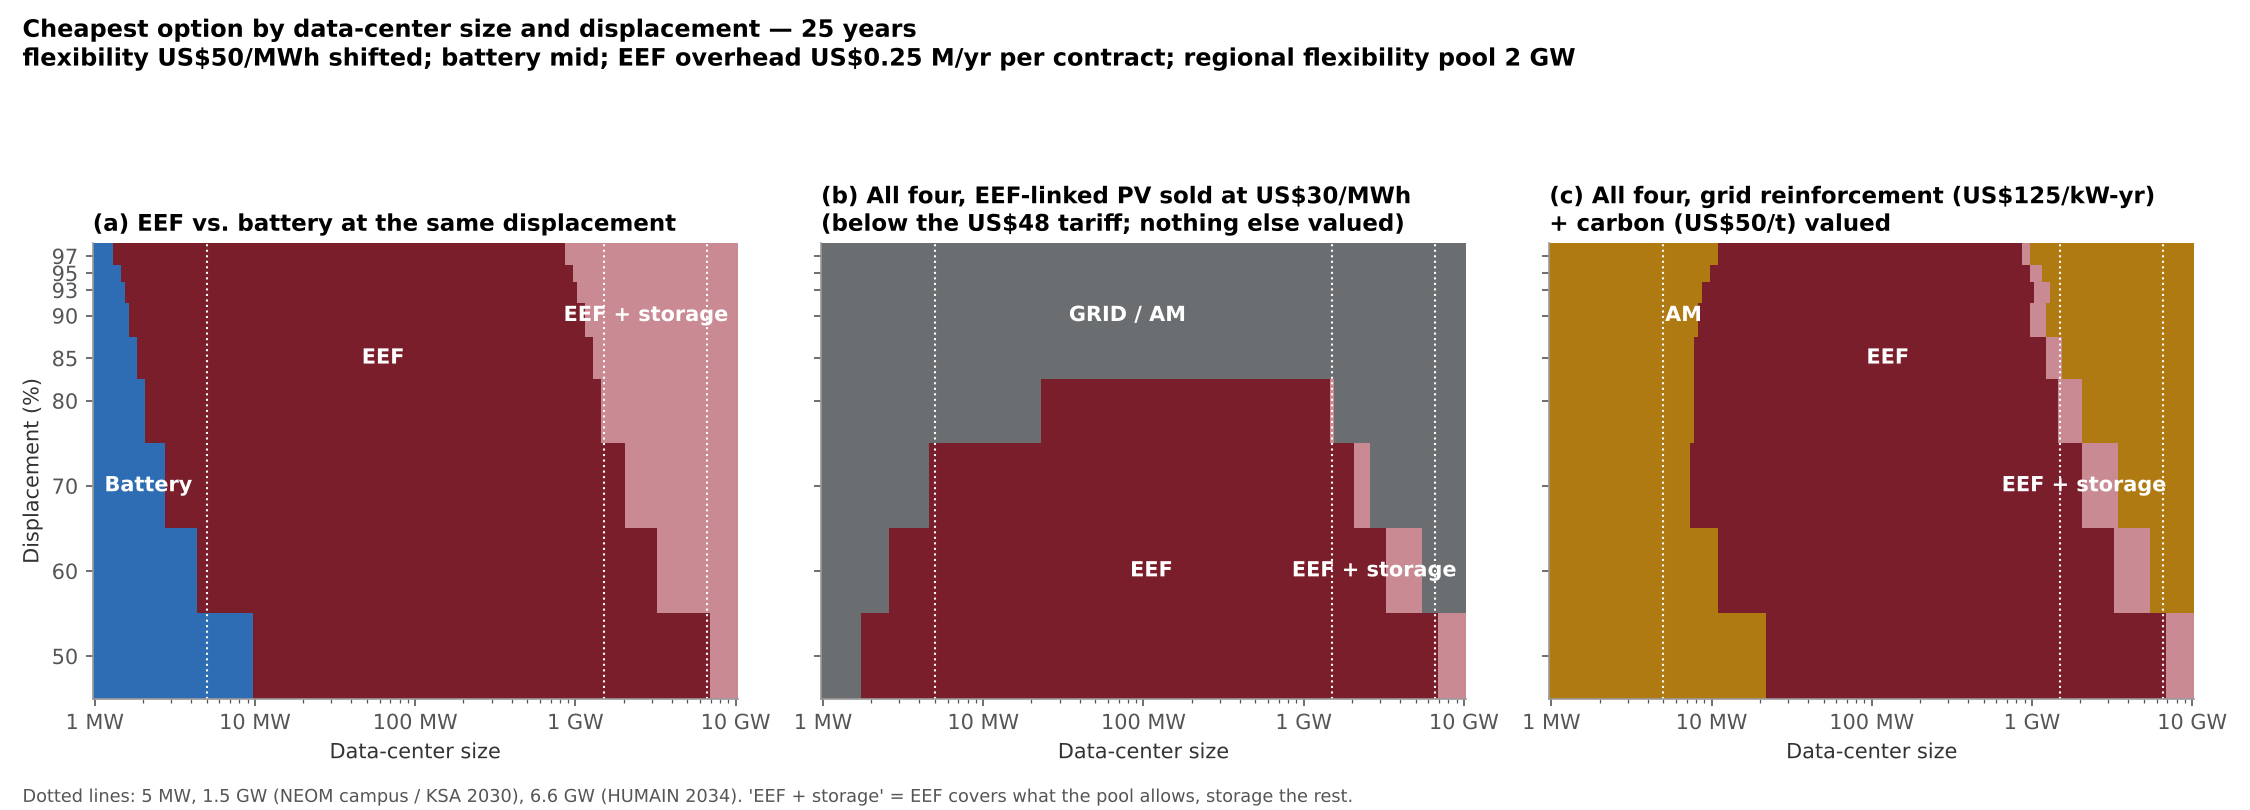
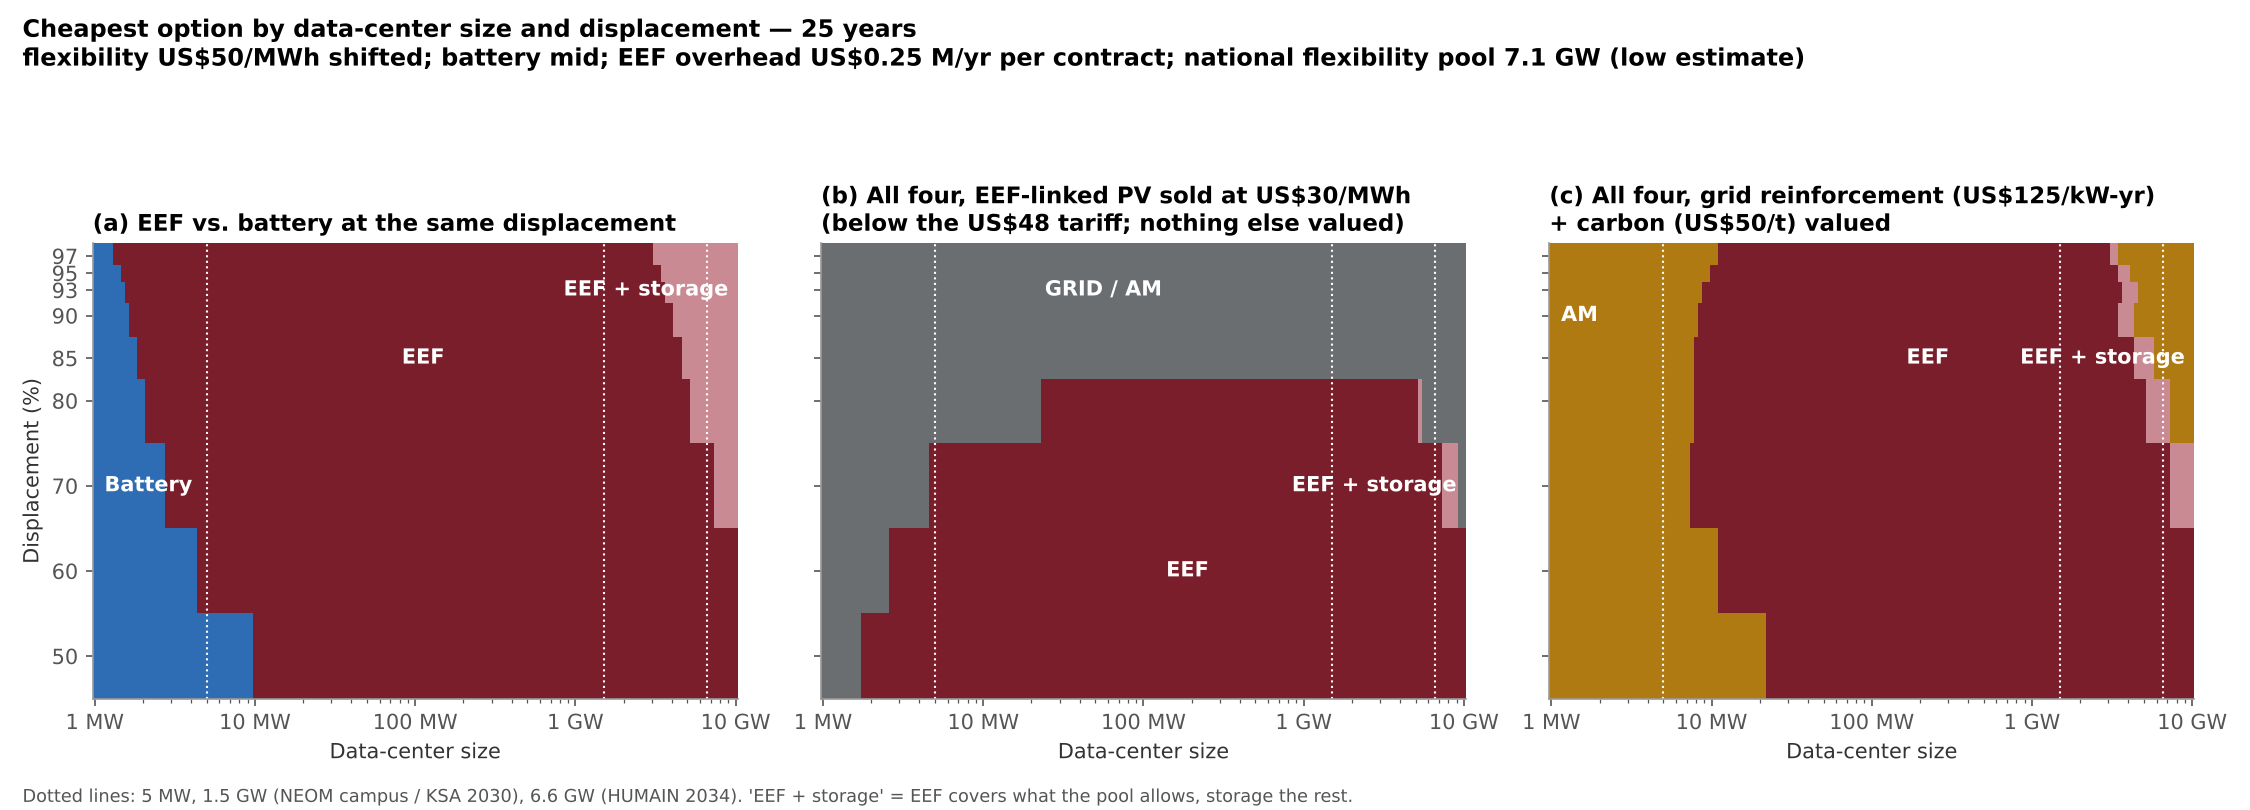
Use the national flexibility pool: one interconnected Saudi grid
A data center can contract flexible loads anywhere on the national grid
through the operator, so the size limit is the national pool (7.1 GW low,
29.9 GW high) shared by all data centers on EEF, not a regional pool.
Verdict: 85-97% displacement; ~8 MW up to ~3.5 GW in total (~14 GW high).

Claude-Session: https://claude.ai/code/session_01JnT9EYRxwG655caXrsEVoH

diff --git a/tpec2027/model/plot_verdict.py b/tpec2027/model/plot_verdict.py
@@ -3,7 +3,8 @@
 Curve 1 (displacement, 100-MW data center): EEF's 25-year cost advantage over the cheapest alternative
 (GRID, AM or battery), and the share of summer evenings freed on the grid.
 Curve 2 (size, at the recommended displacement): the same advantage against data-center size.
-Both for Riyadh and NEOM. "Works" = EEF is the cheapest of the four AND it frees >= 90% of the data center's
+Both for Riyadh and NEOM, with the national flexibility pool (one interconnected grid; low 7.1 GW, high 29.9 GW).
+The size limit is the TOTAL data-center capacity using EEF nationally, not one campus. "Works" = EEF is the cheapest of the four AND it frees >= 90% of the data center's
 load on summer evenings (the hours that drive grid reinforcement).
 Value case: grid reinforcement avoided (US$125/kW-yr) + carbon (US$50/t); other assumptions as plot_displacement.py.
 Writes results/verdict_ranges.csv and figures/fig_verdict_curves.png.
@@ -21,12 +22,12 @@ R, C = pdp.R_KW, 50.0
 X_REC = 0.90
 EVE_MIN = 0.90
 SITES = {"riyadh": ("Riyadh", "-"), "neom": ("NEOM", "--")}
-SIZES = np.logspace(0, 4, 401)
+SIZES = np.logspace(0, np.log10(30000), 451)
 MAROON, BLUE, GREY = pdp.COL["EEF"], pdp.COL["Battery"], "#6B6E70"
 
 
-def advantage(ph, X, S, am_x):
-    k = pdp.costs(X, S, R, C, ph=ph, am_x=am_x)
+def advantage(ph, X, S, am_x, pool=pdp.POOL):
+    k = pdp.costs(X, S, R, C, ph=ph, am_x=am_x, pool=pool)
     return min(k["GRID"], k["AM"], k["Battery"]) - k["EEF"], k["Battery"] - k["EEF"], k["f"], k["e"]
 
 
@@ -40,15 +41,17 @@ for site in SITES:
     sz = [advantage(ph, X_REC, S, am_x) for S in SIZES]
     pure = [S for S, a in zip(SIZES, sz) if a[0] > 0 and a[2] >= 1]
     hyb = [S for S, a in zip(SIZES, sz) if a[0] > 0 and a[2] < 1]
-    curves[site] = dict(xs=xs, adv=adv, eve=eve, sz=sz)
+    sz_hi = [advantage(ph, X_REC, S, am_x, pdp.POOL_HIGH) for S in SIZES]
+    pure_hi = [S for S, a in zip(SIZES, sz_hi) if a[0] > 0 and a[2] >= 1]
+    curves[site] = dict(xs=xs, adv=adv, eve=eve, sz=sz, sz_hi=sz_hi)
     out.append([site, round(100 * min(ok)), round(100 * max(ok)), round(min(pure), 1), round(max(pure)),
-                round(max(hyb)) if hyb else "", round(X_REC * 100)])
+                round(max(hyb)) if hyb else "", round(max(pure_hi)), round(X_REC * 100)])
     print(site, "displacement", min(ok), "-", max(ok), "| size EEF alone", round(min(pure), 1), "-", round(max(pure)),
           "| with storage up to", round(max(hyb)) if hyb else "-")
 with open(pdp.RES / "verdict_ranges.csv", "w", newline="") as fh:
     w = csv.writer(fh)
     w.writerow(["site", "displacement_min_pct", "displacement_max_pct", "size_min_MW", "size_max_MW_eef_alone",
-                "size_max_MW_with_storage", "size_curve_at_pct"])
+                "size_max_MW_with_storage", "size_max_MW_eef_alone_high_pool", "size_curve_at_pct"])
     w.writerows(out)
 
 plt.rcParams.update({"text.parse_math": False, "font.family": "DejaVu Sans", "font.size": 10.5,
@@ -76,27 +79,29 @@ ax3.axhline(100 * EVE_MIN, color="#333333", lw=1, ls=":")
 ax3.text(49, 100 * EVE_MIN + 2, f"{100 * EVE_MIN:.0f}% of the DC load freed", fontsize=9, color="#333333")
 ax3.set_ylim(0, 105); ax3.set_ylabel("Summer evenings\nfreed (%)"); ax3.set_xlabel("Displacement of the data center's use (%)")
 ax3.set_title("(b) Grid room on summer evenings (18:00–02:00)")
-s_lo = min(o[3] for o in out); s_hi = min(o[4] for o in out); s_hi_n = max(o[4] for o in out)
+s_lo = min(o[3] for o in out); s_hi = min(o[4] for o in out); s_hh = min(o[6] for o in out)
 for site, (lab, ls) in SITES.items():
     cv = curves[site]
     ax2.plot(SIZES, [a[0] for a in cv["sz"]], color=MAROON, lw=2.6, ls=ls, label=f"{lab}: vs. the cheapest alternative")
-    ax2.plot(SIZES, [a[1] for a in cv["sz"]], color=BLUE, lw=1.8, ls=ls, label=f"{lab}: vs. the battery")
-ax2.axvspan(s_lo, s_hi, color=MAROON, alpha=.08, lw=0)
+ax2.plot(SIZES, [a[0] for a in curves["riyadh"]["sz_hi"]], color=MAROON, lw=1.6, ls=":", label="Riyadh: same, national pool high (29.9 GW)")
+ax2.plot(SIZES, [a[1] for a in curves["riyadh"]["sz"]], color=BLUE, lw=1.8, label="Riyadh: vs. the battery")
+ax2.axvspan(s_lo, s_hi, color=MAROON, alpha=.10, lw=0)
+ax2.axvspan(s_hi, s_hh, color=MAROON, alpha=.04, lw=0)
 ax2.axhline(0, color="#333333", lw=1)
-ax2.set_xscale("log"); ax2.set_xlim(1, 10000); ax2.set_ylim(-25, 26)
+ax2.set_xscale("log"); ax2.set_xlim(1, 30000); ax2.set_ylim(-25, 26)
 ax2.set_xticks([1, 10, 100, 1000, 10000]); ax2.set_xticklabels(["1 MW", "10 MW", "100 MW", "1 GW", "10 GW"])
 for v, t in [(5, "5 MW"), (1500, "1.5 GW NEOM"), (6600, "6.6 GW HUMAIN")]:
     ax2.axvline(v, color=GREY, lw=.8, ls=":"); ax2.text(v * 1.08, -23.5, t, fontsize=8.5, color=GREY, rotation=90, va="bottom")
-ax2.text(np.sqrt(s_lo * s_hi), 23.5, f"EEF works: ≈ {s_lo:.0f} MW – {s_hi / 1000:.0f} GW", ha="center", color=MAROON, weight="bold", fontsize=12)
+ax2.text(np.sqrt(s_lo * s_hi), 25, f"EEF works: ≈ {s_lo:.0f} MW – {s_hi / 1000:.1f} GW\n(national pool, low estimate)", ha="center", va="top", color=MAROON, weight="bold", fontsize=12)
+ax2.text(np.sqrt(s_hi * s_hh), 19.5, f"up to ≈ {s_hh / 1000:.0f} GW\n(high pool)", ha="center", color=MAROON, fontsize=9.5)
 ax2.text(s_lo * 1.4, -7, "← below ≈ 8 MW: fixed contract costs\n    dominate → pool small sites", fontsize=9, color="#333333")
-ax2.text(9500, 21, "above ≈ 1 GW (NEOM 1.3 GW):\nthe regional pool of 2 GW\nof flexible load runs out", fontsize=9, color="#333333", ha="right", va="top")
-ax2.set_title(f"(c) Size curve — at {X_REC:.0%} displacement"); ax2.set_xlabel("Data-center size")
+ax2.set_title(f"(c) Size curve — at {X_REC:.0%} displacement, one national grid"); ax2.set_xlabel("Data-center capacity using EEF (one campus or the national total)")
 ax2.set_ylabel("EEF saving, US$ per MWh of DC load"); ax2.grid(axis="y", color="#E6E3DE", lw=.8)
 ax2.legend(frameon=False, fontsize=9, loc="lower center")
-fig.suptitle(f"Verdict: EEF is the best option for {r_lo:.0f}–{r_hi:.0f}% displacement and data centers of "
-             f"≈ {s_lo:.0f} MW – {s_hi / 1000:.0f} GW per region ({s_hi_n / 1000:.1f} GW at NEOM)", x=.01, ha="left", fontsize=13, weight="bold")
+fig.suptitle(f"Verdict: EEF is the best option for {r_lo:.0f}–{r_hi:.0f}% displacement and for data centers of ≈ {s_lo:.0f} MW up to\n"
+             f"≈ {s_hi / 1000:.1f} GW in total on the national grid (≈ {s_hh / 1000:.0f} GW with the high flexibility estimate) — Riyadh and NEOM", x=.01, ha="left", fontsize=13, weight="bold")
 fig.text(.01, .012, "Value case: grid reinforcement avoided US$125/kW-yr + carbon US$50/t; flexibility US$50/MWh shifted; battery mid; "
-         "PV sold at its cost;\nEEF overhead US$0.25 M/yr per contract; regional pool 2 GW. "
+         "PV sold at its cost;\nEEF overhead US$0.25 M/yr per contract; national flexibility pool 7.1 GW (low) – 29.9 GW (high), KAPSARC 2026. "
          "'Works' = cheapest of GRID, AM, battery and EEF, and ≥ 90% of summer evenings freed.", fontsize=8.3, color="#555555")
-fig.subplots_adjust(left=.07, right=.98, top=.9, bottom=.12)
+fig.subplots_adjust(left=.07, right=.98, top=.87, bottom=.12)
 fig.savefig(pdp.FIG / "fig_verdict_curves.png")

diff --git a/tpec2027/model/plot_displacement.py b/tpec2027/model/plot_displacement.py
@@ -13,7 +13,10 @@ Value cases (assumptions, stated in the figure):
   bill           nothing else is valued
   grid           + grid reinforcement for load added on summer evenings, US$125/kW-yr (range 100-150)
   grid+carbon    + carbon at US$50/t (0.568 t/MWh)
-Size enters through a fixed overhead per EEF contract (US$0.25 M/yr) and a regional flexibility pool (2 GW).
+Size enters through a fixed overhead per EEF contract (US$0.25 M/yr) and the national flexibility pool. The Saudi grid
+is one interconnected system, so a data center can contract flexible loads anywhere in it through the operator; the
+pool is the national industrial demand-response potential, 7.1 GW (low) to 29.9 GW (high) by 2030 (KAPSARC 2026),
+shared by all data centers that use EEF. Inter-regional transfer limits are checked by the operator (contract C5).
 
 Writes results/displacement_costs.csv, results/displacement_size_map.csv and
 figures/fig_displacement_curve.png, figures/fig_displacement_size_map.png.
@@ -40,7 +43,8 @@ PI = {"low": 25.0, "mid": 50.0, "high": 75.0}            # US$/MWh shifted
 R_KW = 125.0                      # US$/kW-yr grid reinforcement (assumption)
 CASES = {"bill": (0.0, 0.0), "grid": (R_KW, 0.0), "grid+carbon": (R_KW, 50.0)}
 F_CONTRACT = 0.25                 # US$ M/yr per EEF contract
-POOL = 2000.0                     # MW regional flexibility pool
+POOL = 7100.0                     # MW national flexibility pool, low estimate (KAPSARC 2026)
+POOL_HIGH = 29900.0               # MW, high estimate
 COL = {"EEF": "#7A1E2B", "EEF + storage": "#C98A93", "Battery": "#2E6DB4", "AM": "#B07A12", "GRID": "#6B6E70",
        "GRID / AM": "#6B6E70"}
 
@@ -237,7 +241,7 @@ def main():
     axs[0].set_ylabel("Displacement (%)")
     axs[0].set_yticks([50, 60, 70, 80, 85, 90, 93, 95, 97])
     fig.suptitle("Cheapest option by data-center size and displacement — 25 years\n"
-                 "flexibility US$50/MWh shifted; battery mid; EEF overhead US$0.25 M/yr per contract; regional flexibility pool 2 GW", x=.01, ha="left", fontsize=11.5, weight="bold")
+                 "flexibility US$50/MWh shifted; battery mid; EEF overhead US$0.25 M/yr per contract; national flexibility pool 7.1 GW (low estimate)", x=.01, ha="left", fontsize=11.5, weight="bold")
     fig.text(.01, .01, "Dotted lines: 5 MW, 1.5 GW (NEOM campus / KSA 2030), 6.6 GW (HUMAIN 2034). "
              "'EEF + storage' = EEF covers what the pool allows, storage the rest.", fontsize=8.5, color="#555555")
     fig.tight_layout(rect=(0, .03, 1, .9))
